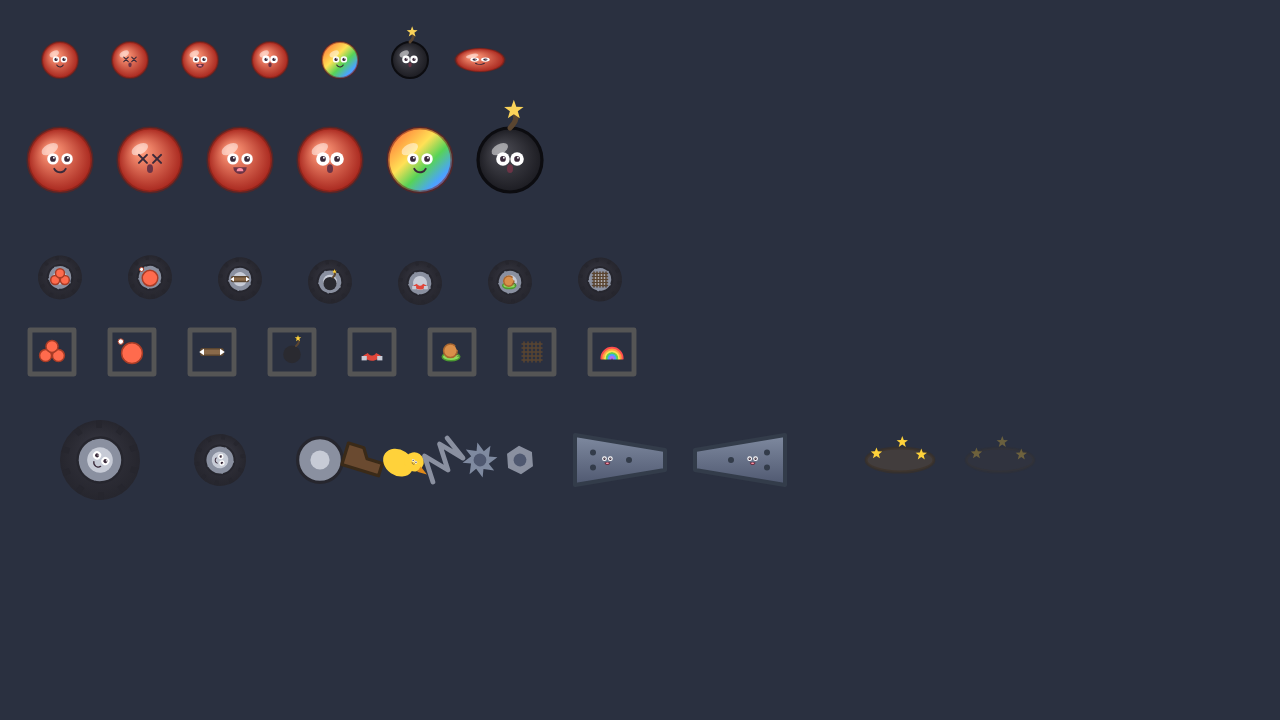
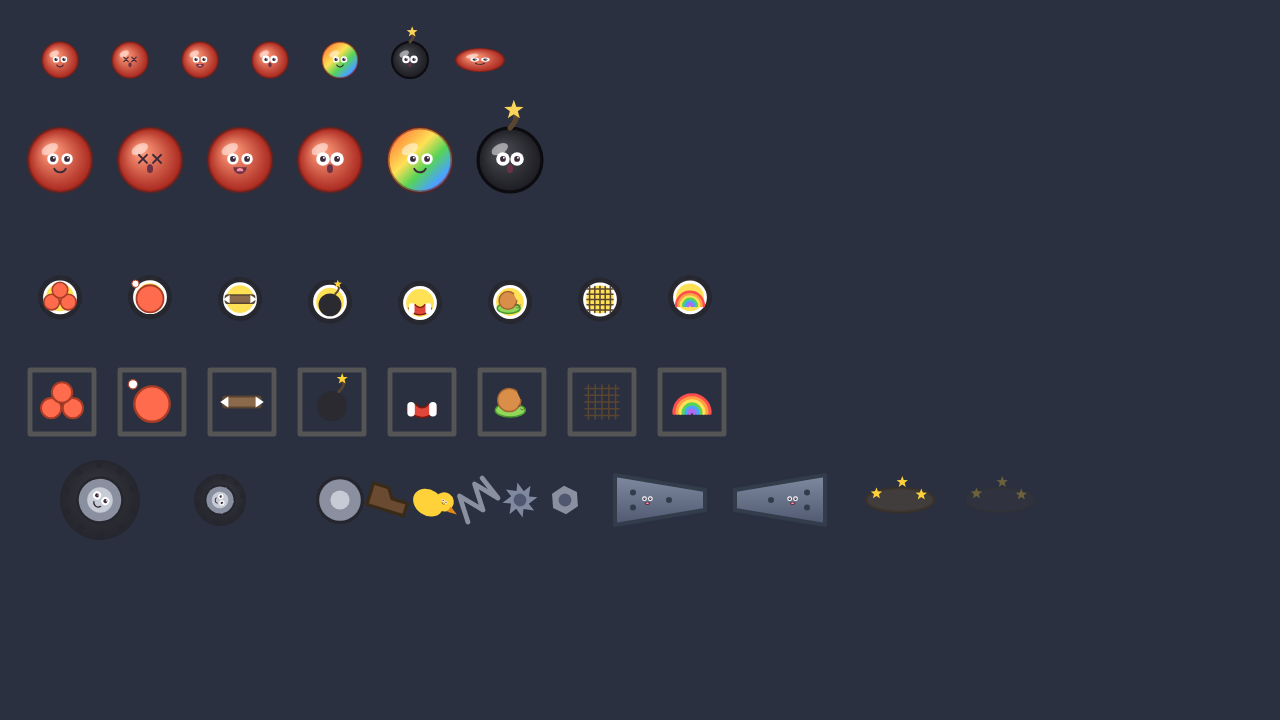
art: Block Bash pack fixes — big faces, bright capsules, magnet redesign
Fix round 1 from controller review of the four contact sheets.

1. BASH_ART.block: faces were tiny (hh*0.62 ≈ 15px on a 96x48 block —
   half-height instead of full height). Now every kind draws its face at
   ~30px (matching the ball's r18 face read), the dominant element on the
   block; kind emblems (star, candy sticker, fuse, '?', dents) shrunk and
   pushed into the corners so they back up the face instead of competing
   with it. Split's two faces are ~24px. Tough's dents moved to top-corner
   scuffs so the (now much bigger) dizzy/angry face carries the damage
   read, as requested.
2. BASH_ART.capsule + modIcon: capsules read as grey dark-on-dark blobs.
   Added a bright '#ffe156' inner disc with a white rim filling ~70% of
   the tire, and capsule() now calls modIcon at s=26 (was 15) so icons
   fill it. Redesigned the magnet icon from a bare arc (no outline, grey
   tips, read as a bowtie) to the same red/white horseshoe silhouette as
   the crane object, with a dark outline pass first for contrast at any
   size — reads unmistakably at both the 44px capsule and the 34px HUD
   chip scale.
3. BASH_ART.crane: the magnet head was a red disc with a face — visually
   identical to the ball on the scene sheet. Redesigned as a proper
   red/white horseshoe on a steel yoke (wider than tall, rivets, face on
   the yoke, glow only when o.holding), built from the same U-path shape
   as the new magnet icon so the capsule and the crane object read as
   "the same thing."
[…]

Changed region(s): [[0.0, 0.3667, 0.6562, 0.7333]]

diff --git a/js/bashart.js b/js/bashart.js
@@ -153,18 +153,21 @@ const BASH_ART = {
   },
 
   // ---------------------------------------------------------------- 5
-  // The magnet head. x = centre, y = bottom of the magnet. Chain runs up to
-  // the rail underside (y=92). o.holding draws a warm grip glow; o.mood.
+  // The magnet head: a classic red/white horseshoe on a steel yoke, wider
+  // than tall — never confusable with Bouncy Buddy the ball. x = centre,
+  // y = bottom of the magnet (the leg tips). Chain runs up to the rail
+  // underside (y=92). o.holding draws a warm grip glow; o.mood.
   crane(ctx, x, y, t = 0, o = {}) {
     const holding = !!o.holding, mood = o.mood || 'happy';
-    const magR = 34, topY = y - magR * 2;
+    const legGap = 30, legLen = 13, armW = 14; // wider (2*legGap) than tall
+    const topAttachY = y - legLen - legGap;
     ctx.save();
     ctx.strokeStyle = '#4a4f5c'; ctx.lineWidth = 6; ctx.lineCap = 'round';
     ctx.beginPath();
     let py = 92, sign = 1;
     ctx.moveTo(x, py);
-    while (py < topY - 1) {
-      const ny = Math.min(py + 16, topY);
+    while (py < topAttachY - 1) {
+      const ny = Math.min(py + 16, topAttachY);
       ctx.lineTo(x + sign * 5, (py + ny) / 2);
       ctx.lineTo(x, ny);
       sign *= -1; py = ny;
@@ -173,28 +176,39 @@ const BASH_ART = {
     ctx.fillStyle = '#5a6070';
     ctx.beginPath(); ctx.arc(x, 90, 10, 0, TAU); ctx.fill();
     ctx.save();
-    ctx.translate(x, y - magR);
+    ctx.translate(x, y - legLen);
     if (holding) {
-      const gg = ctx.createRadialGradient(0, 0, 4, 0, 0, magR * 1.8);
+      const gg = ctx.createRadialGradient(0, -legGap * 0.4, 4, 0, -legGap * 0.4, legGap * 2.1);
       gg.addColorStop(0, 'rgba(255,235,150,0.9)'); gg.addColorStop(1, 'rgba(255,235,150,0)');
-      ctx.fillStyle = gg; ctx.beginPath(); ctx.arc(0, 0, magR * 1.8, 0, TAU); ctx.fill();
+      ctx.fillStyle = gg; ctx.beginPath(); ctx.arc(0, -legGap * 0.4, legGap * 2.1, 0, TAU); ctx.fill();
     }
-    // steel casing rim (reads as an industrial lifting-magnet disc)
-    ctx.fillStyle = BB_TIRE_RIM;
-    ctx.beginPath(); ctx.arc(0, 0, magR, 0, TAU); ctx.fill();
-    ctx.strokeStyle = BB_TIRE_DARK; ctx.lineWidth = 4; ctx.stroke();
+    // the U-shaped body path: up the left leg, over the yoke, down the right
+    const uPath = () => {
+      ctx.beginPath();
+      ctx.moveTo(-legGap, legLen);
+      ctx.lineTo(-legGap, 0);
+      ctx.arc(0, 0, legGap, Math.PI, TAU, false);
+      ctx.lineTo(legGap, legLen);
+    };
+    ctx.lineCap = 'round'; ctx.lineJoin = 'round';
+    // steel casing outline (drawn wider, underneath)
+    ctx.strokeStyle = BB_TIRE_DARK; ctx.lineWidth = armW + 6;
+    uPath(); ctx.stroke();
+    // red-painted horseshoe body
+    ctx.strokeStyle = BB_DRUM; ctx.lineWidth = armW;
+    uPath(); ctx.stroke();
+    // white tip bands at the bottom of each leg (the classic magnet look)
+    ctx.strokeStyle = '#fff'; ctx.lineWidth = armW * 0.86;
+    for (const lx of [-legGap, legGap]) {
+      ctx.beginPath(); ctx.moveTo(lx, legLen * 0.3); ctx.lineTo(lx, legLen); ctx.stroke();
+    }
+    // rivets around the yoke
     ctx.fillStyle = BB_TIRE_DARK;
-    for (let i = 0; i < 8; i++) {
-      const a = (i / 8) * TAU;
-      ctx.beginPath(); ctx.arc(Math.cos(a) * magR * 0.86, Math.sin(a) * magR * 0.86, magR * 0.09, 0, TAU); ctx.fill();
+    for (const a of [Math.PI * 1.15, Math.PI * 1.5, Math.PI * 1.85]) {
+      ctx.beginPath(); ctx.arc(Math.cos(a) * legGap * 0.9, Math.sin(a) * legGap * 0.9, 2.6, 0, TAU); ctx.fill();
     }
-    // red magnetic core
-    const bg = ctx.createRadialGradient(-magR * 0.25, -magR * 0.25, 4, 0, 0, magR * 0.74);
-    bg.addColorStop(0, BB_DRUM); bg.addColorStop(1, BB_DRUM2);
-    ctx.fillStyle = bg;
-    ctx.beginPath(); ctx.arc(0, 0, magR * 0.74, 0, TAU); ctx.fill();
-    ctx.strokeStyle = '#5a2018'; ctx.lineWidth = 4; ctx.stroke();
-    drawFace(ctx, 0, 0, magR * 0.68, mood, t, 6);
+    // face on the steel yoke (the rounded back), not the legs
+    drawFace(ctx, 0, -legGap * 0.62, legGap * 0.62, mood, t, 6);
     ctx.restore();
     ctx.restore();
   },
@@ -250,31 +264,35 @@ const BASH_ART = {
     ctx.fillStyle = 'rgba(255,255,255,0.28)';
     rr(ctx, -hw * 0.68, -hh * 0.78, w * 0.32, h * 0.22, 5); ctx.fill();
 
-    // kind decorations
+    // kind decorations — sized/pushed to the corners so the BIG face (below)
+    // stays the dominant, unmissable element at in-game size (96x48).
     if (kind === 'tough') {
       ctx.fillStyle = BB_METAL_DARK;
       for (const p of [[-hw + 10, -hh + 9], [hw - 10, -hh + 9], [-hw + 10, hh - 9], [hw - 10, hh - 9]]) {
         ctx.beginPath(); ctx.arc(p[0], p[1], 3.5, 0, TAU); ctx.fill();
       }
+      // dent scuffs live in the top corners (clear of the big face) — dizzy
+      // mood on the face itself is what really sells hp<=1, this backs it up
       const dents = Math.max(0, maxHp - hp);
-      ctx.strokeStyle = 'rgba(30,24,20,0.5)'; ctx.lineWidth = 4;
+      const dentPos = [[-hw * 0.62, -hh * 0.5], [hw * 0.62, -hh * 0.5]];
+      ctx.fillStyle = 'rgba(20,16,14,0.4)'; ctx.strokeStyle = 'rgba(20,16,14,0.65)'; ctx.lineWidth = 2.5;
       for (let i = 0; i < dents; i++) {
-        const dx = -hw * 0.42 + i * hw * 0.84;
-        ctx.beginPath(); ctx.arc(dx, -hh * 0.05, hh * 0.5, 0.2 * Math.PI, 0.9 * Math.PI); ctx.stroke();
+        const p = dentPos[i % 2];
+        ctx.beginPath(); ctx.ellipse(p[0], p[1], hh * 0.34, hh * 0.22, 0.35, 0, TAU); ctx.fill(); ctx.stroke();
       }
     } else if (kind === 'candy') {
-      drawCandy(ctx, hw * 0.42, hh * 0.32, hh * 0.7, seed % 3, t);
+      drawCandy(ctx, hw * 0.64, hh * 0.6, hh * 0.5, seed % 3, t);
     } else if (kind === 'power') {
       const glow = 0.5 + 0.5 * Math.sin(t * 5);
       const gg = ctx.createRadialGradient(0, 0, 2, 0, 0, hw * 0.95);
       gg.addColorStop(0, POW.power.glow); gg.addColorStop(1, 'rgba(255,247,194,0)');
-      ctx.save(); ctx.globalAlpha = 0.3 * glow + 0.35; ctx.fillStyle = gg;
+      ctx.save(); ctx.globalAlpha = 0.28 * glow + 0.3; ctx.fillStyle = gg;
       ctx.beginPath(); ctx.arc(0, 0, hw * 0.95, 0, TAU); ctx.fill(); ctx.restore();
       ctx.fillStyle = '#fff';
-      starPath(ctx, hw * 0.6, -hh * 0.6, hh * 0.32, hh * 0.14, 5); ctx.fill();
+      starPath(ctx, hw * 0.74, -hh * 0.7, hh * 0.26, hh * 0.11, 5); ctx.fill();
     } else if (kind === 'boom') {
       ctx.fillStyle = BB_DRUM_BAND;
-      ctx.fillRect(-hw, -hh * 0.22, w, hh * 0.44);
+      ctx.fillRect(-hw, -hh * 0.9, w, hh * 0.32);
       ctx.strokeStyle = BB_RUST2; ctx.lineWidth = 4; ctx.lineCap = 'round';
       ctx.beginPath(); ctx.moveTo(0, -hh); ctx.quadraticCurveTo(hw * 0.16, -hh - 14, hw * 0.05, -hh - 22); ctx.stroke();
       const spark = 0.6 + 0.4 * Math.sin(t * 20 + seed);
@@ -285,11 +303,11 @@ const BASH_ART = {
       ctx.beginPath(); ctx.moveTo(0, -hh + 4); ctx.lineTo(0, hh - 4); ctx.stroke();
     } else if (kind === 'surprise') {
       ctx.strokeStyle = BB_METAL_DARK; ctx.lineWidth = 5; ctx.lineCap = 'round';
-      ctx.beginPath(); ctx.arc(0, -hh, hh * 0.5, Math.PI, TAU); ctx.stroke();
+      ctx.beginPath(); ctx.arc(0, -hh, hh * 0.4, Math.PI, TAU); ctx.stroke();
       ctx.fillStyle = BB_METAL2;
-      rr(ctx, -hh * 0.13, -hh * 1.02, hh * 0.26, hh * 0.28, 3); ctx.fill();
+      rr(ctx, -hh * 0.11, -hh * 0.92, hh * 0.22, hh * 0.24, 3); ctx.fill();
       const bob = Math.sin(t * 4 + seed) * 3;
-      outlineText(ctx, '?', hw * 0.52, -hh * 0.42 + bob, hh * 1.05, '#fff', '#8a5a12');
+      outlineText(ctx, '?', hw * 0.7, -hh * 0.55 + bob, hh * 0.85, '#fff', '#8a5a12');
     } else if (kind === 'runner') {
       const legY = hh;
       ctx.strokeStyle = '#3a2a2a'; ctx.lineWidth = 5; ctx.lineCap = 'round';
@@ -300,17 +318,19 @@ const BASH_ART = {
       }
     }
 
-    // face(s)
+    // face(s) — BIG, the dominant element on every block (matches the ball's
+    // r18 face reading perfectly: same ~30px scale on this 96x48 block).
+    const faceS = Math.min(w, h) * 0.625; // ≈30 for the standard block
     if (kind === 'split') {
-      drawFace(ctx, -hw * 0.42, hh * 0.08, hh * 0.52, 'happy', t, seed);
-      drawFace(ctx, hw * 0.42, hh * 0.08, hh * 0.52, 'grin', t, seed + 1);
+      drawFace(ctx, -hw * 0.46, 2, faceS * 0.8, 'happy', t, seed);
+      drawFace(ctx, hw * 0.46, 2, faceS * 0.8, 'grin', t, seed + 1);
     } else if (kind === 'rainbow') {
-      drawFace(ctx, 0, hh * 0.05, hh * 0.62, 'happy', t, seed);
+      drawFace(ctx, 0, 2, faceS, 'happy', t, seed);
       ctx.fillStyle = '#fff';
-      for (const sd of [-1, 1]) starPath(ctx, sd * hh * 0.36, hh * 0.05 - hh * 0.15, hh * 0.13, hh * 0.055, 5, 0);
+      for (const sd of [-1, 1]) starPath(ctx, sd * faceS * 0.34, -faceS * 0.28, faceS * 0.12, faceS * 0.05, 5, 0);
       ctx.fill();
     } else {
-      drawFace(ctx, 0, hh * 0.05, hh * 0.62, mood, t, seed);
+      drawFace(ctx, 0, 2, faceS, mood, t, seed);
     }
 
     if (hitT > 0) {
@@ -377,7 +397,12 @@ const BASH_ART = {
     const bob = Math.sin(t * 3 + x * 0.01) * 3;
     ctx.translate(x, y + bob);
     bbTire(ctx, 0, 0, 22, t * 0.4, null, t, 0);
-    BASH_ART.modIcon(ctx, 0, 0, 15, kind);
+    // bright inner disc so the icon reads instead of vanishing into the
+    // dark tire tread (dark-on-dark was the readability bug)
+    ctx.fillStyle = '#ffe156';
+    ctx.beginPath(); ctx.arc(0, 0, 22 * 0.7, 0, TAU); ctx.fill();
+    ctx.strokeStyle = '#fff'; ctx.lineWidth = 3; ctx.stroke();
+    BASH_ART.modIcon(ctx, 0, 0, 26, kind);
     ctx.restore();
   },
 
@@ -415,10 +440,26 @@ const BASH_ART = {
       ctx.fillStyle = BB_TOOLBOX;
       starPath(ctx, s * 0.3, -s * 0.68, s * 0.17, s * 0.07, 5); ctx.fill();
     } else if (kind === 'magnet') {
-      ctx.strokeStyle = BB_DRUM; ctx.lineWidth = s * 0.26; ctx.lineCap = 'butt';
-      ctx.beginPath(); ctx.arc(0, -s * 0.05, s * 0.36, 0.15 * Math.PI, 0.85 * Math.PI); ctx.stroke();
-      ctx.fillStyle = BB_TIRE_HUB;
-      ctx.fillRect(-s * 0.52, s * 0.2, s * 0.26, s * 0.22); ctx.fillRect(s * 0.26, s * 0.2, s * 0.26, s * 0.22);
+      // same silhouette as the crane's magnet head (an upside-down U, red
+      // body + white tip bands) so the capsule instantly reads as "that
+      // thing at the top" — dark outline first so it pops on any bg
+      const legGap = s * 0.34, legLen = s * 0.34, armW = s * 0.26, oy = -s * 0.06;
+      const uPath = () => {
+        ctx.beginPath();
+        ctx.moveTo(-legGap, legLen + oy);
+        ctx.lineTo(-legGap, oy);
+        ctx.arc(0, oy, legGap, Math.PI, TAU, false);
+        ctx.lineTo(legGap, legLen + oy);
+      };
+      ctx.lineCap = 'round'; ctx.lineJoin = 'round';
+      ctx.strokeStyle = '#7a1810'; ctx.lineWidth = armW + s * 0.09;
+      uPath(); ctx.stroke();
+      ctx.strokeStyle = BB_DRUM; ctx.lineWidth = armW;
+      uPath(); ctx.stroke();
+      ctx.strokeStyle = '#fff'; ctx.lineWidth = armW * 0.82;
+      for (const lx of [-legGap, legGap]) {
+        ctx.beginPath(); ctx.moveTo(lx, legLen * 0.3 + oy); ctx.lineTo(lx, legLen + oy); ctx.stroke();
+      }
     } else if (kind === 'slow') {
       ctx.fillStyle = '#8fd85a';
       ctx.beginPath(); ctx.ellipse(-s * 0.05, s * 0.24, s * 0.44, s * 0.2, 0, 0, TAU); ctx.fill();
@@ -601,8 +642,9 @@ const BASH_ART = {
       ctx.beginPath(); ctx.arc(p[0], chestY + p[1], 5, 0, TAU); ctx.fill();
     }
 
-    // candy core
-    const coreOpen = !!jb.coreOpen;
+    // candy core — self-sufficient on jb.stage too, in case a caller sets
+    // the boss's stage without also flagging coreOpen explicitly
+    const coreOpen = !!jb.coreOpen || (jb.stage || 1) >= 4;
     const coreR = chestH * (coreOpen ? 0.42 : 0.3);
     if (hasCore) {
       if (coreOpen) {
